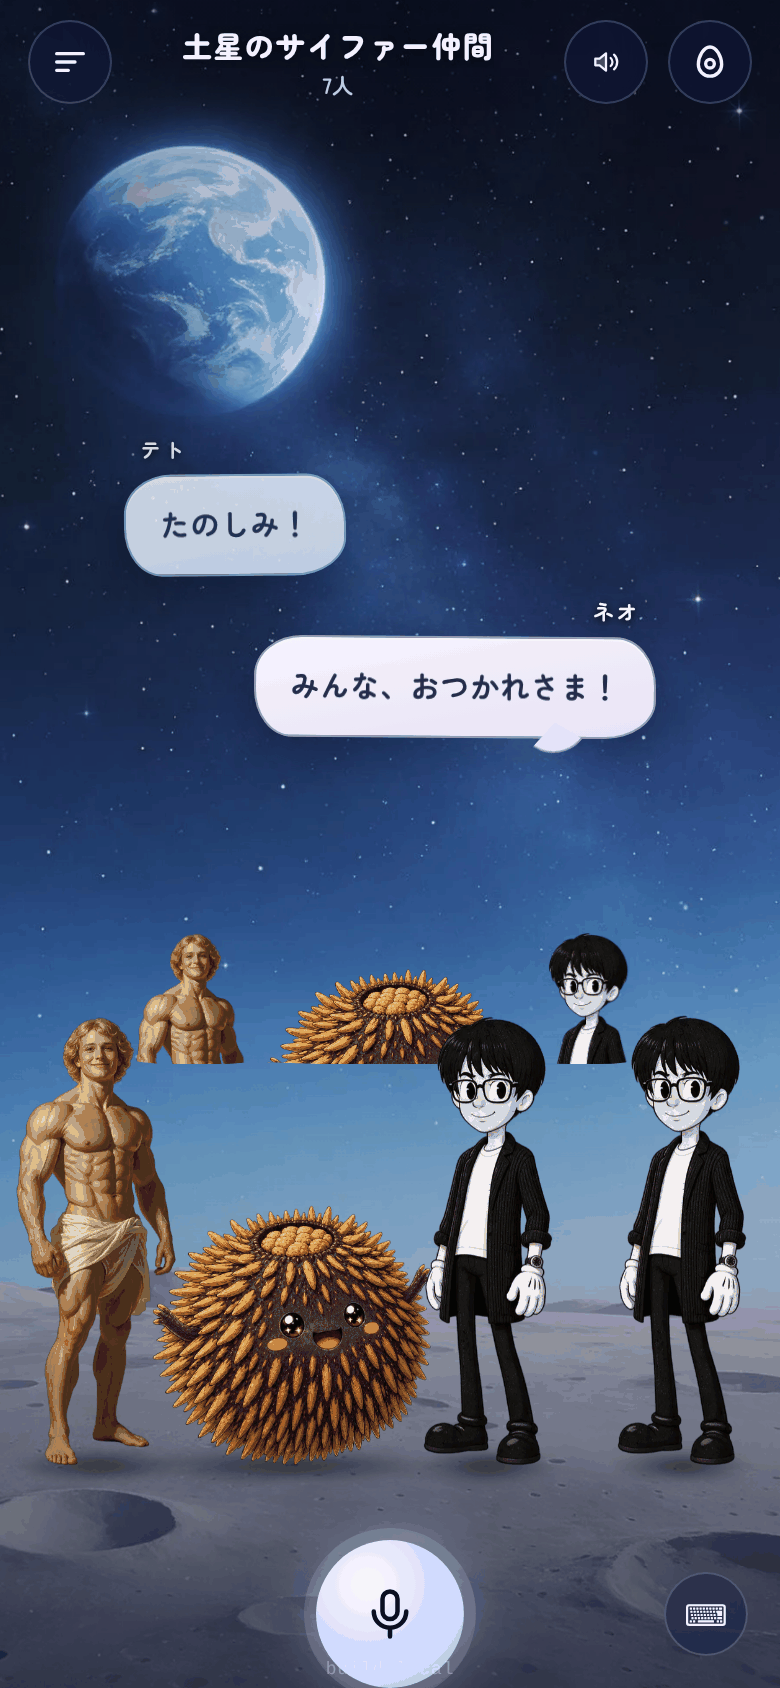
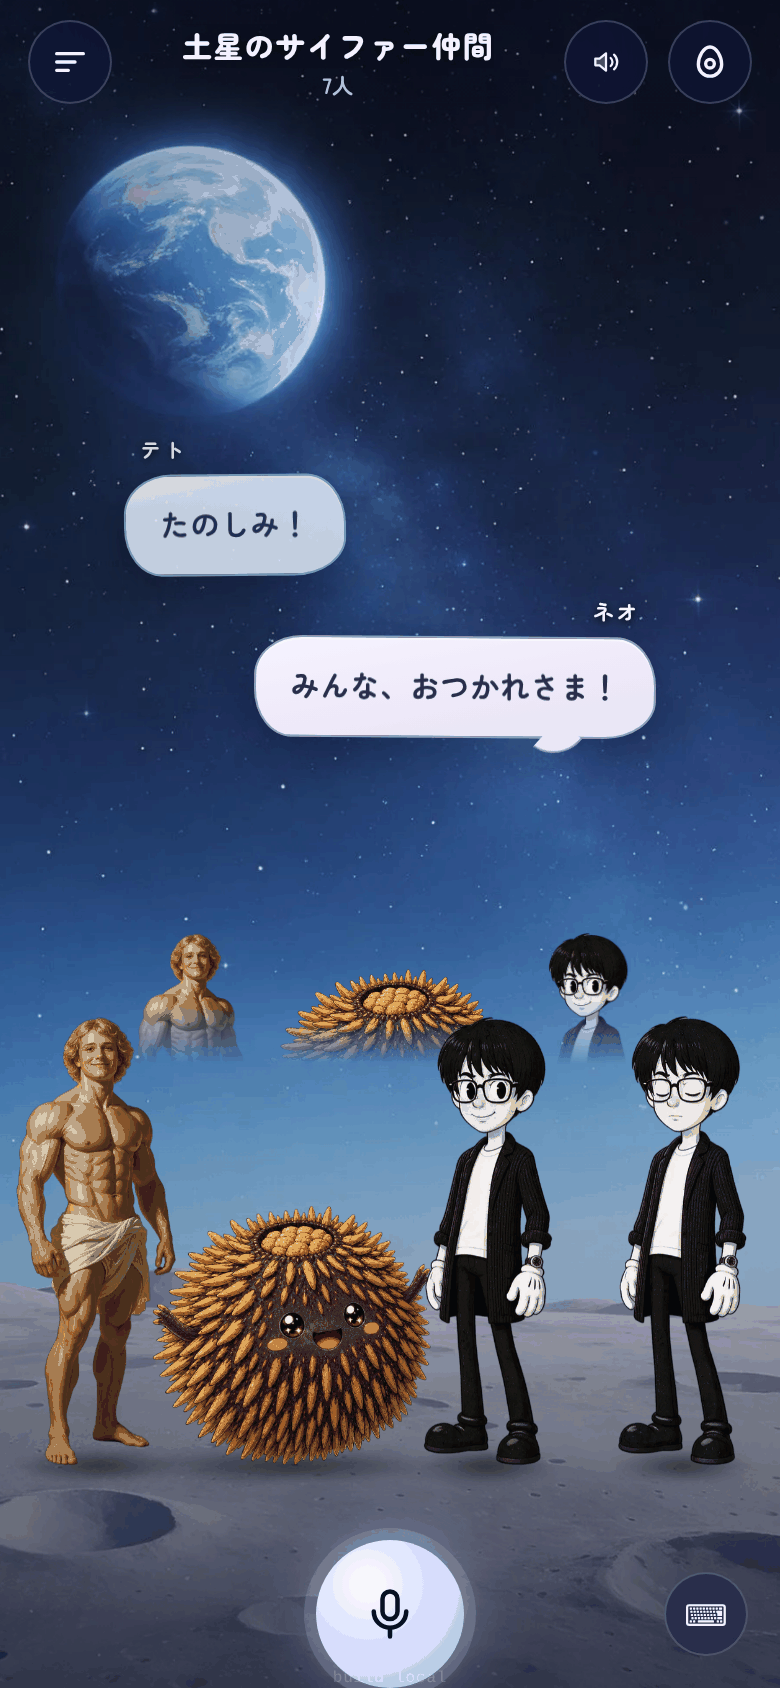
Talk: chest-up figures fade out at the bottom; re-shot review 09 and 10
Claude-Session: https://claude.ai/code/session_01VLiVxXYEkJP9Xt5cBFE8CF

diff --git a/apps/web/components/talk/Figure.tsx b/apps/web/components/talk/Figure.tsx
@@ -146,7 +146,7 @@ export function Figure({
 
   return (
     <div className={`pointer-events-none relative flex flex-col items-center ${className}`} style={outer} aria-hidden>
-      <div className="relative h-full overflow-visible" style={chest ? { overflow: 'hidden', borderRadius: '0 0 40% 40% / 0 0 10% 10%' } : undefined}>
+      <div className="relative h-full overflow-visible" style={chest ? { overflow: 'hidden', WebkitMaskImage: 'linear-gradient(to bottom, #000 70%, transparent)', maskImage: 'linear-gradient(to bottom, #000 70%, transparent)' } : undefined}>
         {/* the shadow at the feet */}
         {!chest && <span className="absolute bottom-[-8px] left-1/2 h-[18px] w-[64%] -translate-x-1/2 rounded-[50%] blur-[2px]" style={{ background: 'radial-gradient(closest-side,rgba(0,0,0,.55),rgba(0,0,0,0))', opacity: lit ? 0.75 : 1 }} />}
         <div
